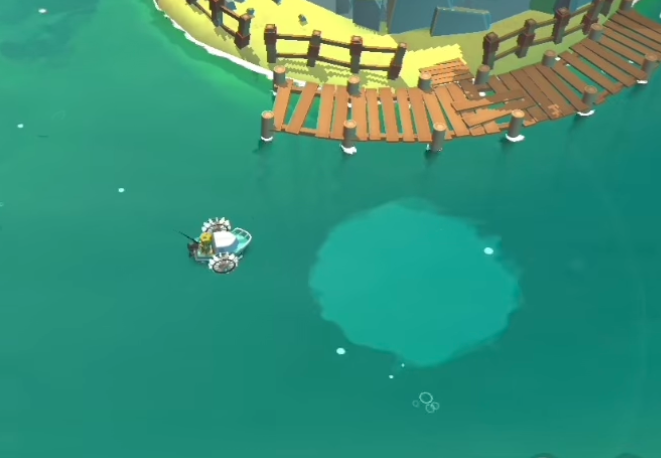
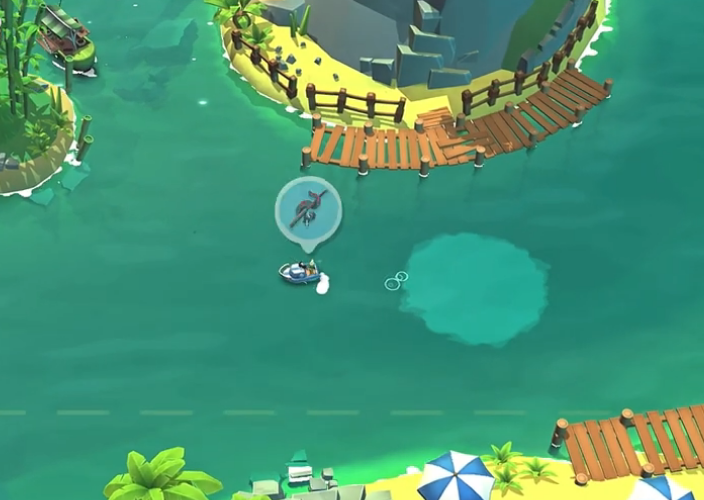
Update Position

diff --git a/src/manager/markerManager.js b/src/manager/markerManager.js
@@ -73,7 +73,7 @@ class MarkerManager {
         if (bundle) return bundle;
         const locs = Array.isArray(entity.locations) ? entity.locations : [];
         const markers = locs.map((l, idx) => {
-            const marker = L.marker([l.y, l.x], {icon: this.markerIcon(entity, idx === 0, idx, l.hint_by_bubble)});
+            const marker = L.marker([l.y, l.x], {icon: this.markerIcon(entity, idx === 0, idx, l.hint_by_bubble, l.time)});
             marker.on("click", () => this.deps.openEntityDetail(entity, idx));
             marker.on("add", () => {
                 const element = marker.getElement();
@@ -103,7 +103,7 @@ class MarkerManager {
         bundle.markers.forEach((marker, idx) => {
             const nextSig = this.markerVisualSignature(entity, idx === 0);
             if (bundle.iconSignatures[idx] === nextSig) return;
-            marker.setIcon(this.markerIcon(entity, idx === 0, idx, Boolean(locs[idx]?.hint_by_bubble)));
+            marker.setIcon(this.markerIcon(entity, idx === 0, idx, Boolean(locs[idx]?.hint_by_bubble)), locs[idx]?.time);
             bundle.iconSignatures[idx] = nextSig;
         });
     }
@@ -122,7 +122,7 @@ class MarkerManager {
         return hasVisibleMarker;
     }
 
-    markerIcon(entity, isPrimary = false, markerIndex = 0, hintByBubble = false) {
+    markerIcon(entity, isPrimary = false, markerIndex = 0, hintByBubble = false, time="day") {
         const rarityKey = entity.rarity;
         const categoryKey = entity.category || "fish";
         const caught = this.deps.entityManager.isCaught(entity);
@@ -142,7 +142,8 @@ class MarkerManager {
         alt="${this.deps.entityManager.label(entity)}"
       >
       ${markerNumber ? `<span class="marker-number ${timeDimClass}">${markerNumber}</span>` : ""}
-      ${caught ? `<span class="caught-v marker-v ${timeDimClass}">✓</span>` : ""}
+      ${hintByBubble ? `<span class="marker-v ${bubbleHintClass} ${time} ${timeDimClass}">🫧</span>` : ""}
+      ${!hintByBubble&&caught ? `<span class="caught-v marker-v ${timeDimClass}">✓</span>` : ""}
     `,
             iconSize: [30, 30],
             iconAnchor: [15, 15],

diff --git a/src/manager/mapManager.js b/src/manager/mapManager.js
@@ -2,6 +2,7 @@ import {state} from "../state/state.js";
 import {mapsById} from "../../content/mapIndex.js";
 import {showToast} from "../ui/toast.js";
 import MarkerManager from "./markerManager.js";
+import {isRealtimeDayTime} from "../util/timeUtil.js";
 
 class MapManager {
     init() {
@@ -116,7 +117,8 @@ class MapManager {
             x: Math.round(event.latlng.lng),
             y: Math.round(event.latlng.lat),
         };
-        const text = `"x": ${point.x}, "y": ${point.y}, "hint_by_bubble" : true`;
+        const dayString = isRealtimeDayTime()?"day":"night";
+        const text = `"x": ${point.x}, "y": ${point.y}, "time": "${ dayString}", "hint_by_bubble" : true`;
         await navigator.clipboard.writeText(text);
         showToast("Copy to clipboard: " + text);
     }

diff --git a/style.css b/style.css
@@ -804,6 +804,19 @@ body.map-fullscreen {
     box-shadow: 0 0 0 2px rgba(243, 35, 35, 0.85);
 }
 
+.marker-v.bubble-hint-marker {
+    position: absolute;
+    filter: brightness(3);
+    font-size: 10px;
+    right: 15px;
+    top: 14px;
+    text-shadow: -1px -1px 0 #000, 1px -1px 0 #000, -1px 1px 0 #000, 1px 1px 0 #000;
+}
+
+.marker-v.bubble-hint-marker.night {
+    filter: brightness(0.5);
+}
+
 .marker-v {
     position: absolute;
     right: -5px;
